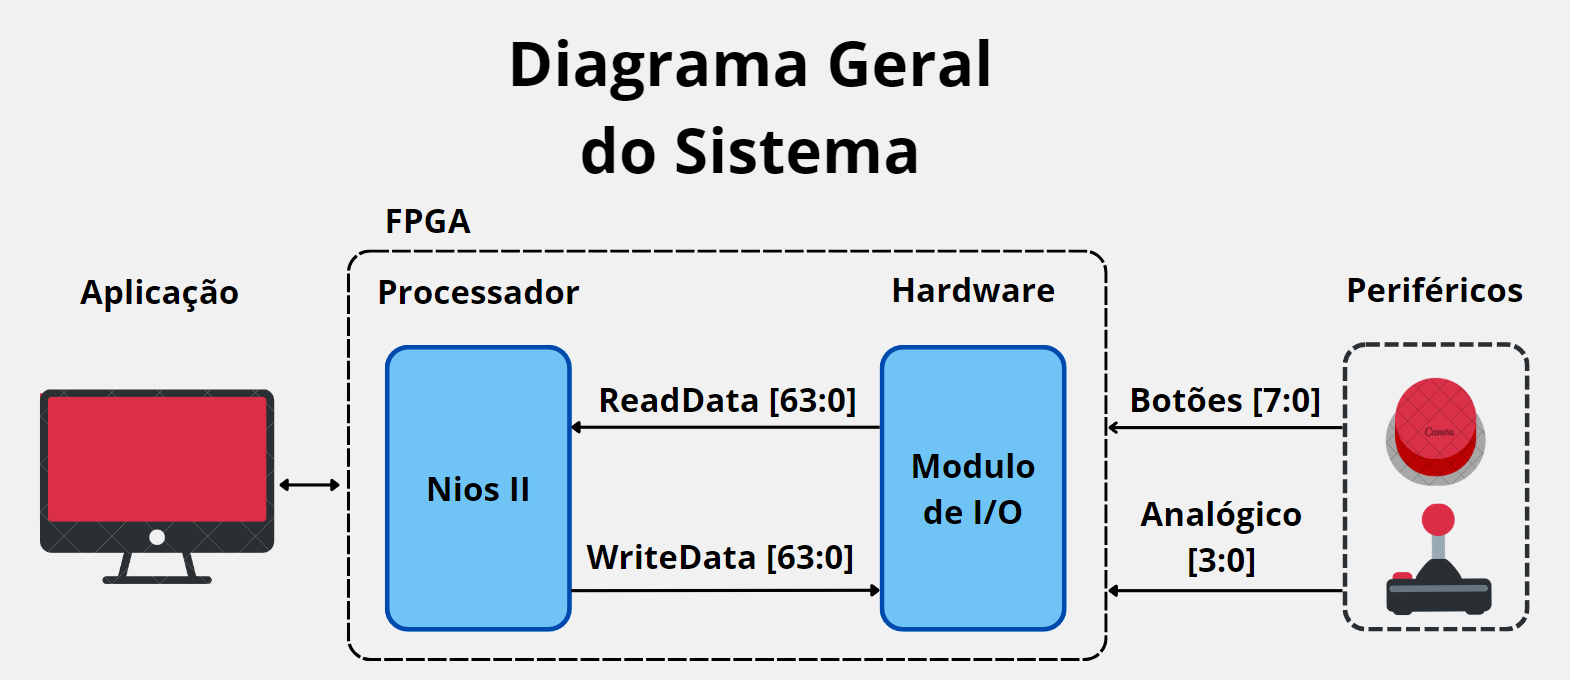
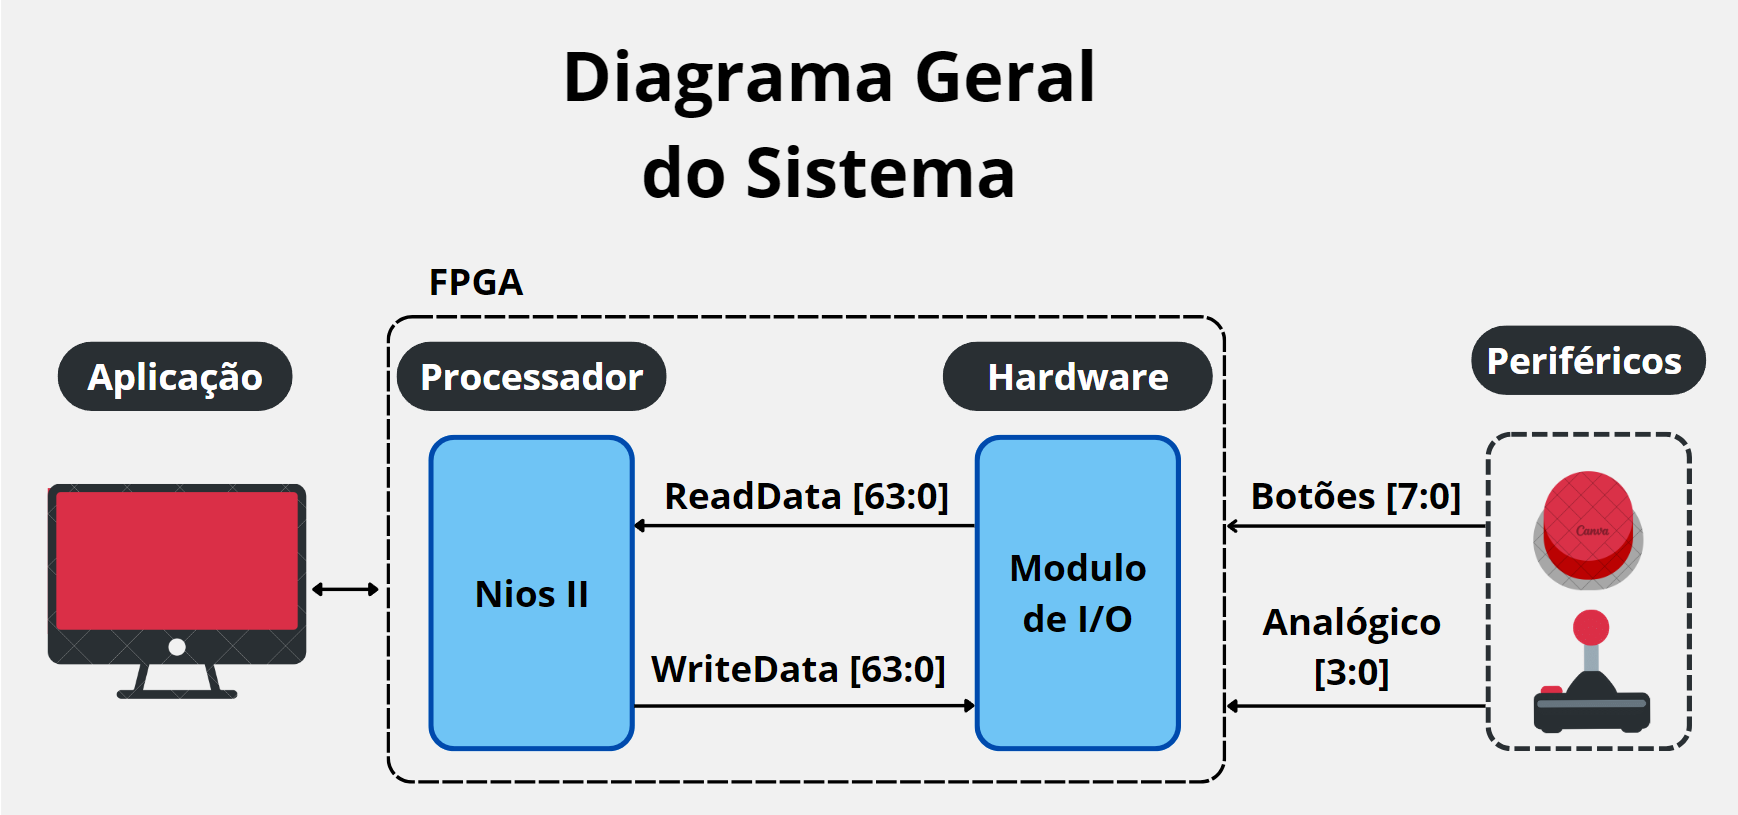
:books: doc: Introdução

diff --git a/doc/Modulo de IO/README.md b/doc/Modulo de IO/README.md
@@ -11,14 +11,32 @@
 <div align="justify"> 
 <h2>Descrição do Projeto</h2>
 
-O gerenciamento de dispositivos de Entrada/Saída, com a sigla E/S (em inglês: Input/Output, I/O), sempre foi um grande desafio na área de sistemas embarcados. Isso se deve tanto à natureza assíncrona dos dados quanto à diferença de velocidade entre o processador e os dispositivos periféricos, o que pode afetar significativamente o desempenho da CPU. Para fornecer uma interface simples e confiável ao usuário e às aplicações, utiliza-se uma estrutura de camadas de hardware (HW) e software (SW). Essa organização em camadas permite ocultar os detalhes específicos dos periféricos para as camadas superiores [ANDREW S. TANENBAUM, 2003]. A Figura 1 ilustra essa arquitetura de camadas entre o software e o hardware.
+O gerenciamento de dispositivos de Entrada/Saída, com a sigla E/S (em inglês: *Input/Output*, I/O), sempre foi um grande
+desafio na área de sistemas embarcados. Isso se deve tanto à natureza assíncrona dos dados quanto à diferença de velocidade 
+entre o processador e os dispositivos periféricos, o que pode afetar significativamente o desempenho da CPU. Para fornecer uma
+interface simples e confiável ao usuário e às aplicações, utiliza-se uma estrutura de camadas de hardware (HW) e software 
+(SW). Essa organização em camadas permite ocultar os detalhes específicos dos periféricos para as camadas superiores
+[ANDREW S. TANENBAUM, 2003]. A Figura 1 ilustra essa arquitetura de camadas entre o software e o hardware.
 
 <p align="center">
   <img src="img/camadas.png" width = "600" />
 </p>
 <p align="center"><strong>Figura 1: Arquitetura de camadas entre o software e o hardware</strong></p>
 
-Neste projeto, focou-se no gerenciamento dos periféricos de um controle de videogame. Desenvolveu-se um **módulo de I/O** em linguagem de descrição de hardware Verilog, implementado em uma FPGA, juntamente com sua biblioteca em linguagem C. O principal objetivo desse módulo é realizar a leitura dos dados dos botões e do joystick. Ele é responsável por capturar e armazenar as informações provenientes dos periféricos e transmiti-las à CPU sob demanda, além de atender às configurações solicitadas pela CPU via software. Este projeto detalhará o funcionamento do módulo tanto no nível de hardware quanto no nível de software, abordando sua arquitetura, interfaces e como os desenvolvedores podem integrá-lo em suas aplicações.
+Neste projeto, o foco está no gerenciamento dos periféricos de um controle de videogame.
+Desenvolveu-se um **módulo de I/O** de 64 *bits* em *Verilog*, uma linguagem de descrição de hardware, 
+implementado em uma *Field-Programmable Gate Array* (FPGA) com processador **NIOS II**, acompanhado de uma biblioteca em linguagem C para facilitar o acesso ao hardware. 
+O principal objetivo desse módulo é realizar a leitura dos dados dos botões e do joystick. 
+Ele é responsável por capturar e armazenar as informações provenientes dos periféricos e transmiti-las
+à CPU sob demanda ou via interrupção. Além disso, o módulo processa as configurações solicitadas pela CPU por meio de software. 
+Este projeto detalhará o funcionamento do módulo tanto no nível de hardware quanto no nível de software, 
+abordando sua arquitetura, interfaces e como os desenvolvedores podem integrá-lo em suas aplicações. Pra se ter uma visão geral do sistema,
+a Figura 2 apresenta o diagrama geral do projeto.
+
+<p align="center">
+  <img src="img/geral.png" width = "800" />
+</p>
+<p align="center"><strong>Figura 2: Visão geral do sistema</strong></p>
 
 </div>
 
@@ -43,10 +61,9 @@ Neste projeto, focou-se no gerenciamento dos periféricos de um controle de vide
 <h1 align="center"> Sumário </h1>
 <div id="sumario">
 	<ul>
-        <li><a href="#VGS"> Visão Geral do Sistema </a></li>
         <li><a href="#VES"> Descrição dos Equipamentos e Software Utilizados </a></li>
-        <li><a href="#FH"> Funcinalidades do Hardware </a></li>
-        <li><a href="#DH"> Descrição do Hardware</a></li>
+        <li><a href="#FH"> Funcinalidades</a></li>
+        <li><a href="#DH"> Arquitetura</a></li>
         <li><a href="#D"> Bibliotecas </a></li>
         <li><a href="#AP"> Análise de Pinout </a></li>
         <li><a href="#OCF"> Organização do Código Fonte </a></li>
@@ -58,18 +75,6 @@ Neste projeto, focou-se no gerenciamento dos periféricos de um controle de vide
 
 
 ![-----------------------------------------------------](img/len.png)
-
-<div align="justify"> 
-<div id="VGS"> 
-
-<h2>Visão Geral do Sistema</h2>
-
-<p align="center">
-  <img src="img/geral.png" width = "800" />
-</p>
-<p align="center"><strong>Figura 2: Visão geral do sistema</strong></p>
-</div>
-</div>
 
 ![-----------------------------------------------------](img/len.png)
 <div align="justify"> 
@@ -95,7 +100,7 @@ Modelo Altera Cyclone IV **EP4CE22F17C6N** FPGA;
 <div align="justify"> 
 <div id="FH"> 
 
-<h2>Funcinalidades do Hardware</h2>
+<h2>Funcinalidades</h2>
 
 </div>
 </div>
@@ -105,22 +110,22 @@ Modelo Altera Cyclone IV **EP4CE22F17C6N** FPGA;
 <div align="justify"> 
 <div id="DH"> 
 
-<h2>Descrição do Hardware</h2>
+<h2>Arquitetura</h2>
 
-<h3> Interface de Comunicação</h3>
+<h3>Conjunto de Instruções</h3>
 
 
 <div align="center">
 
 | Opcode | Instrução |         Descrição         |
 |--------|-----------|---------------------------|
-| 0x00   |  RDEC     | Lê o registrador de dados/edgeCapture|
-| 0x01   |  RCTL     | Lê o registrador de controle|
-| 0x02   |  RMIRQ    | Lê o registrador de máscara de interrupção|
-| 0x03   |  -----   | Não utilizado|
-| 0x04   |  WDEC     | Escreve no registrador de dados/edgeCapture|
-| 0x05   |  WCTL     | Escreve no registrador de controle|   
-| 0x06   |  WMIRQ    | Escreve no registrador de máscara de interrupção|
+| 0x04   |  RDEC     | Lê o registrador de dados/edgeCapture|
+| 0x05   |  RCTL     | Lê o registrador de controle|
+| 0x06   |  RMIRQ    | Lê o registrador de máscara de interrupção|
+| 0x07   |  ------   | Não utilizado|
+| 0x08   |  WDEC     | Escreve no registrador de dados/edgeCapture|
+| 0x09   |  WCTL     | Escreve no registrador de controle|   
+| 0x0A   |  WMIRQ    | Escreve no registrador de máscara de interrupção|
 
 </div>
 <p align="center">
@@ -172,7 +177,7 @@ Para entender como utilizar as funções do biblioteca, a seguir será explicado
 
 `initialize_joystick`: Inicializar o módulo de I/O para leitura dos botões e do joystick. Ao chamar essa função o módulo é reiniciado tendo os valores de controle zerados e é habilitado o sinal de enable.
 
-**parametros:** 
+**parâmetros:** 
 A função não recebe parâmetros.
 
 **retorno:** 
@@ -187,7 +192,7 @@ initialize_joystick();
 
 `close_joystick`: Finalizar o módulo de I/O zerando todos os valores de controle e desabilitando o sinal de enable.
 
-**parametros:**
+**parâmetros:**
 A função não recebe parâmetros.
 
 **retorno:**
@@ -204,13 +209,9 @@ close_joystick();
 
 `read_KEY`: 
 
-`is_KEY_pressed`:
+`read_KEY_edge`:
 
-`is_KEY_released`:
-
-`set_KEY_callback`:
-
-`clear_edge_capture`:
+`read_KEY_edge_all`:
 
 <h4> Funções de Leitura do Joystick</h4>
 
@@ -236,7 +237,6 @@ close_joystick();
 | 6   | GPIO0_03  | PIN_A3  | A                  |
 | 8   | GPIO0_05  | PIN_B4  | RIGHT              |
 | 10  | GPIO0_07  | PIN_B5  | LEFT               |
-| 12  | GND       | -       | -                  |
 | 14  | GPIO0_09  | PIN_D5  | DOWN               |
 | 16  | GPIO0_011 | PIN_A6  | UP                 |
 | 18  | GPIO0_013 | PIN_D6  | B                  |
@@ -244,7 +244,6 @@ close_joystick();
 | 22  | GPIO0_017 | PIN_E6  | SELECT             |
 | 24  | GPIO0_019 | PIN_D8  | X                  |
 | 26  | GPIO0_021 | PIN_F8  | TL                 |
-| 30  | GND       |         | -                  |
 | -   | CLOCK_50  | PIN_R8  | -                  |
 
 </div>
